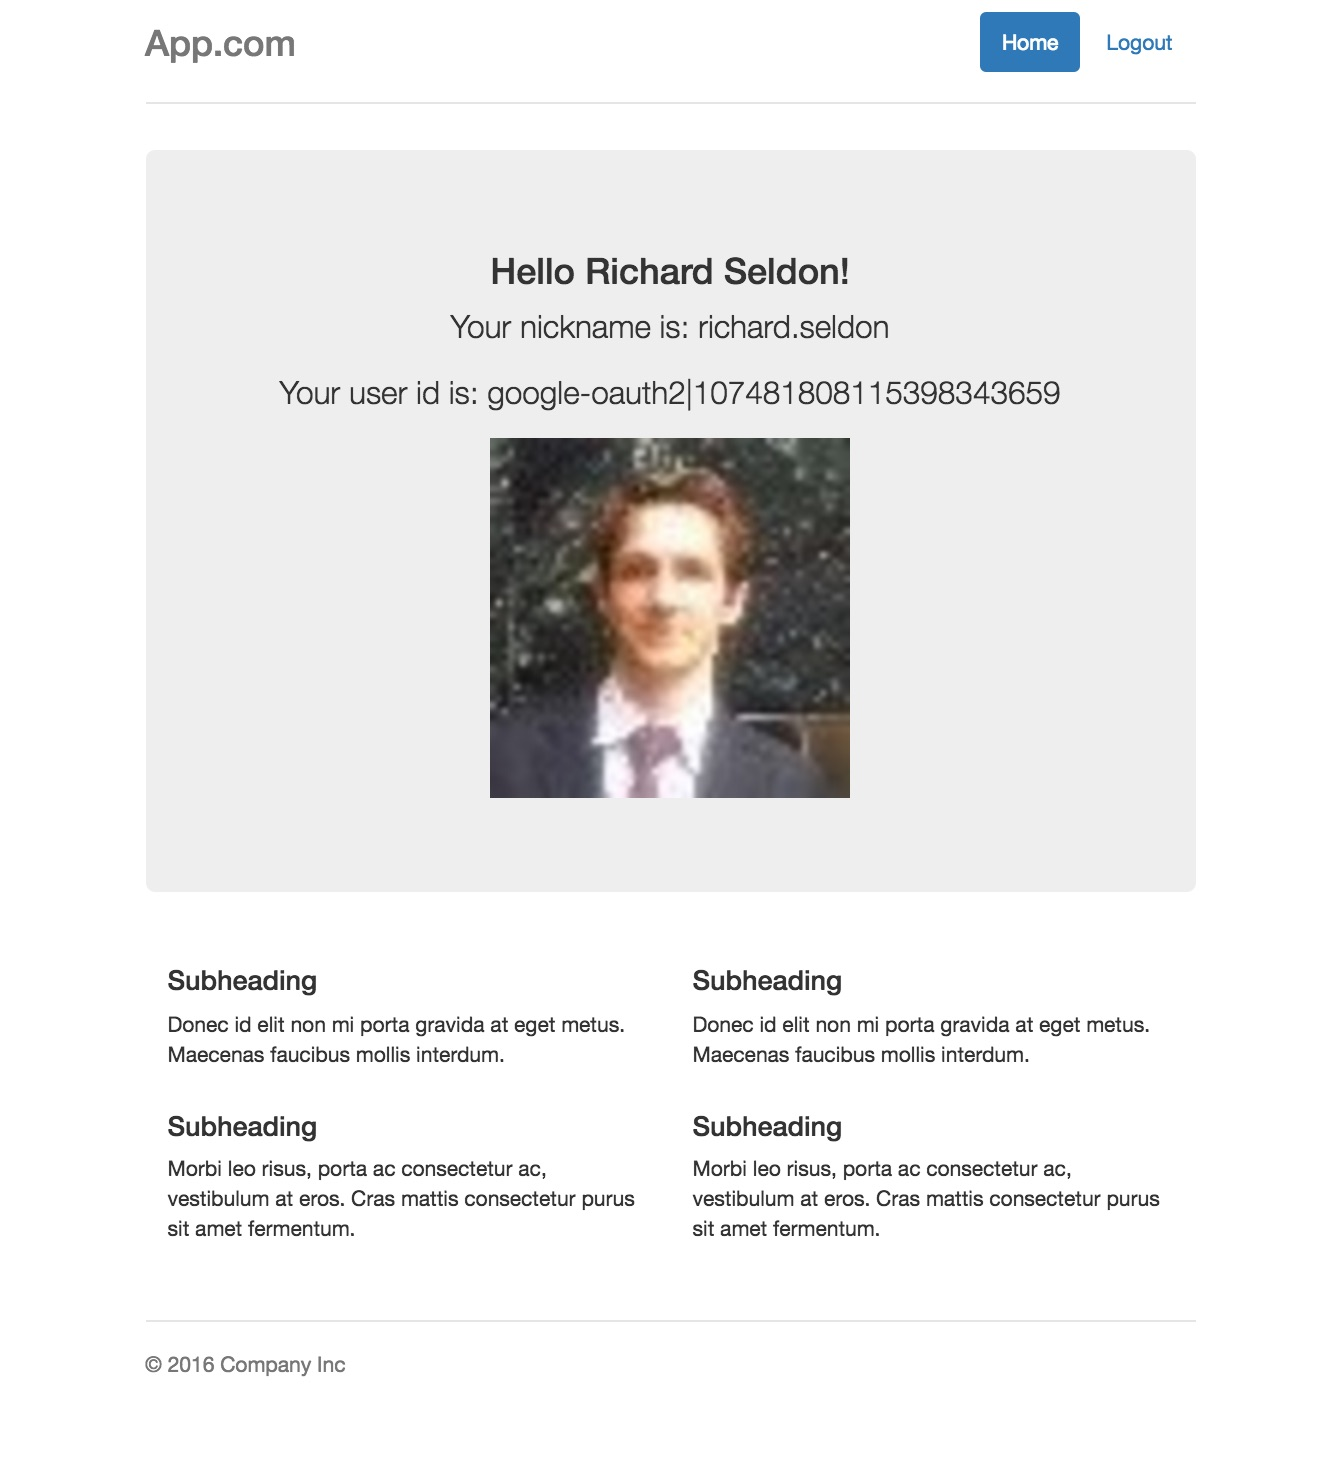
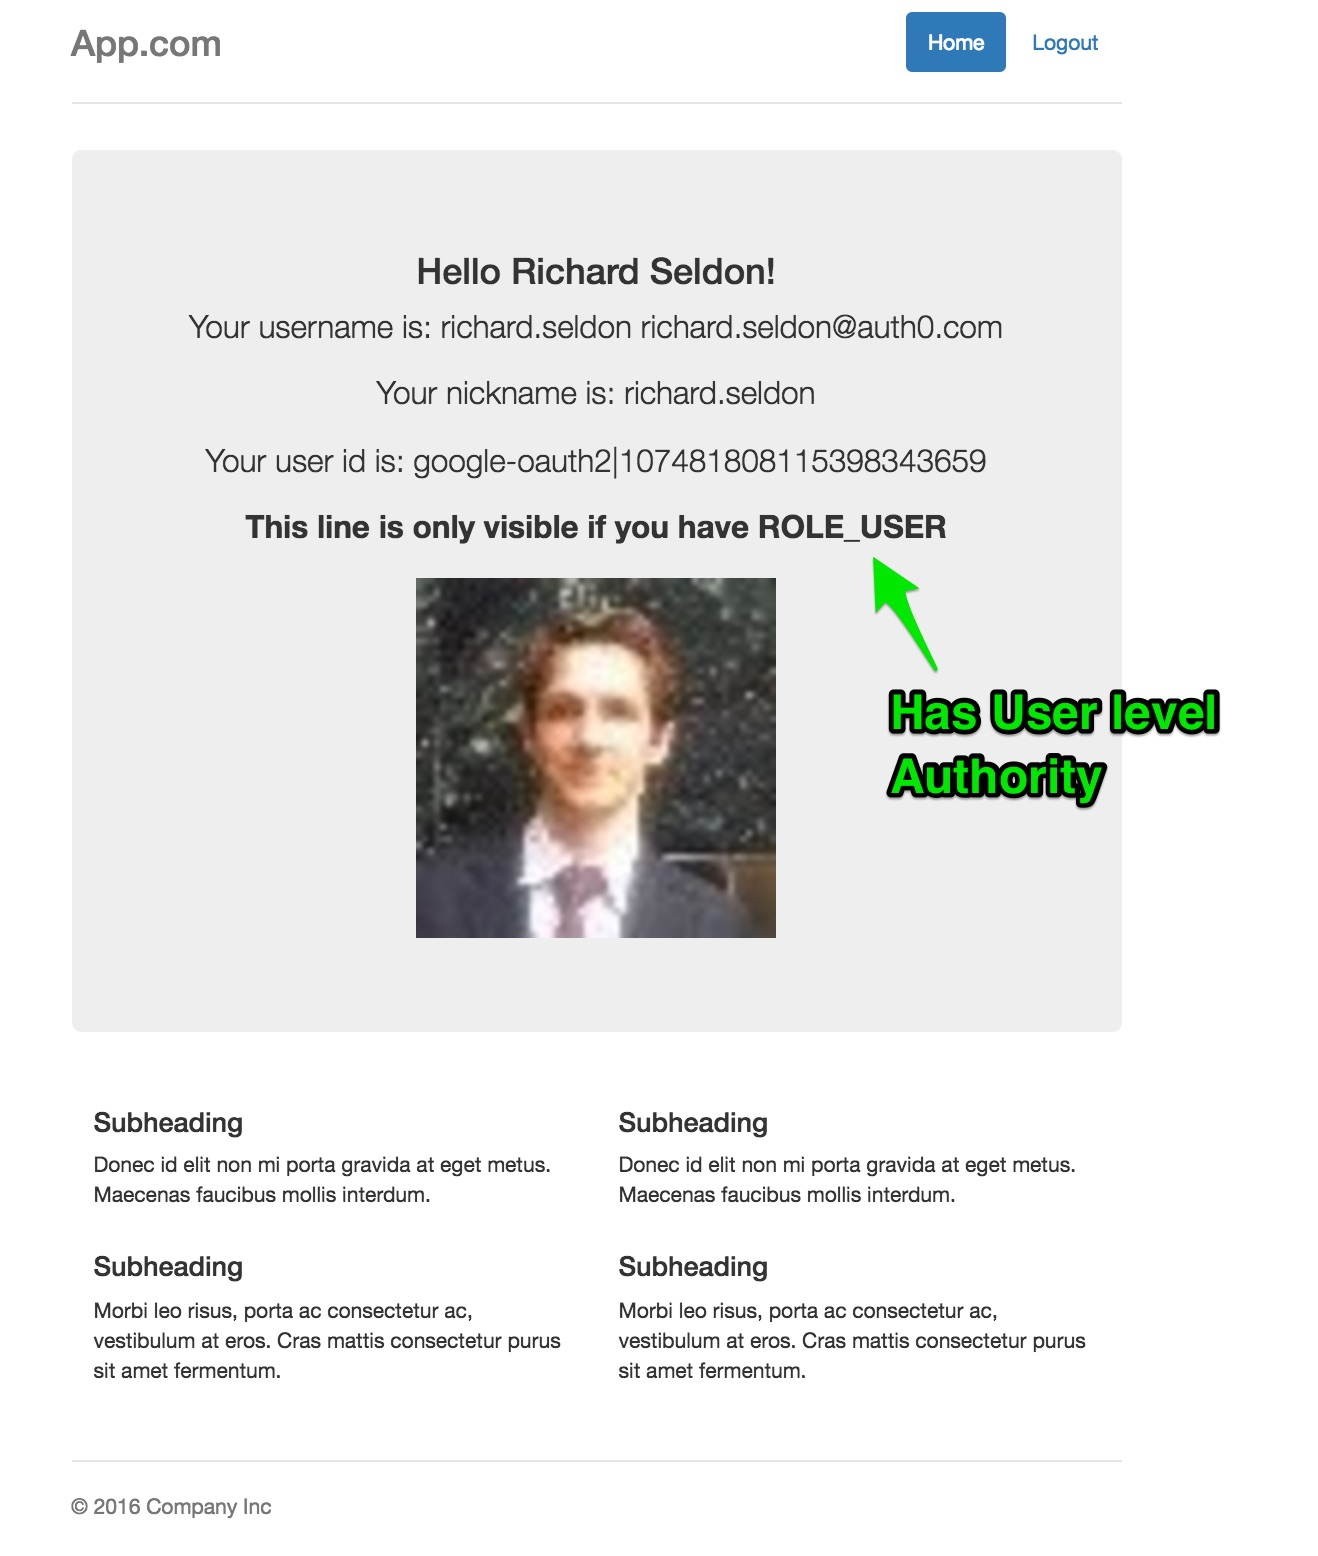
readme & admin service update

diff --git a/src/main/java/com/auth0/example/HomeController.java b/src/main/java/com/auth0/example/HomeController.java
@@ -33,27 +33,28 @@ public class HomeController {
 
     @RequestMapping(value="/portal/home", method = RequestMethod.GET)
     protected String home(final Map<String, Object> model, final HttpServletRequest req, final Principal principal) {
-
         logger.info("Home page");
-
         final String name = principal.getName();
         logger.info("Principal name: " + name);
-
-        final Auth0JWTToken token = (Auth0JWTToken) principal;
-        for(final GrantedAuthority authority: token.getAuthorities()) {
-            logger.info(authority.getAuthority());
-        }
-
-        // if NOT admin - redirected back to login page
-        adminService.ensureAdmin();
-
+        adminChecks((Auth0JWTToken) principal);
         final Auth0User user = SessionUtils.getAuth0User(req);
-        if (user == null) {
-            final String logoutPath = auth0Config.getOnLogoutRedirectTo();
-            return "redirect:" + logoutPath;
-        }
         model.put("user", user);
         return "home";
+    }
+
+    /**
+     *  Simple illustration only
+     */
+    private void adminChecks(final Auth0JWTToken principal) {
+        for(final GrantedAuthority grantedAuthority: principal.getAuthorities()) {
+            final String authority = grantedAuthority.getAuthority();
+            logger.info(authority);
+            if (("ROLE_ADMIN".equals(authority))) {
+                // just a simple callout to demonstrate role based authorization at service level
+                // non-Admin user would be rejected trying to call this service
+                adminService.ensureAdmin();
+            }
+        }
     }
 
 }

diff --git a/src/main/java/com/auth0/example/AdminService.java b/src/main/java/com/auth0/example/AdminService.java
@@ -1,18 +1,33 @@
 package com.auth0.example;
 
+import com.auth0.spring.security.mvc.Auth0UserDetails;
+import org.slf4j.Logger;
+import org.slf4j.LoggerFactory;
 import org.springframework.security.access.prepost.PreAuthorize;
+import org.springframework.security.core.Authentication;
+import org.springframework.security.core.context.SecurityContextHolder;
 import org.springframework.stereotype.Service;
 
 /**
  * Demonstration of method level Role based authorization
  * Only an authenticated and authorized User with Admin
  * rights can access this resource.
+ *
+ * Also demonstrates how to retrieve the UserDetails object
+ * representing the Authentication's principal from within
+ * a service
+ *
  */
 @Service
 public class AdminService {
 
-    @PreAuthorize("hasRole('ROLE_ADMIN')")
+    private final Logger logger = LoggerFactory.getLogger(this.getClass());
+
+    @PreAuthorize("hasAuthority('ROLE_ADMIN')")
     public boolean ensureAdmin() {
+        final Authentication authentication = SecurityContextHolder.getContext().getAuthentication();
+        final Auth0UserDetails currentUser = (Auth0UserDetails) authentication.getPrincipal();
+        logger.info("Current user accessed Admin secured resource: " + currentUser.getUsername());
         return true;
     }
 }

diff --git a/README.md b/README.md
@@ -1,4 +1,14 @@
-## Simple Application demonstrating Auth0 Lock login and home page using Spring Security
+## Sample application demonstrating Auth0 and spring security integration for a Java Spring MVC application
+
+This sample application shows you how to:
+
+ 1. Configure and run Java based Spring application with Auth0 (Lock or Auth0.js) and Spring Security
+ 2. 100% Java Configuration (Annotations)
+ 3. Secure one or more URL endpoints with Role / Authority based permissions (ROLE_USER, ROLE_ADMIN etc)
+ 4. Secure Java Services using method level security annotations for role based access control
+ 5. Use Spring Security JSTL tag library to add role level security to your JSP pages.
+
+Let's get started - it only takes a few minutes to have a working application with all the above.
 
 ### Prerequisites
 
@@ -89,12 +99,12 @@ Here is our sample `AppConfig` entry where we specify the endpoints security set
         http
                 .authorizeRequests()
                 .antMatchers("/css/**", "/fonts/**", "/js/**", "/login").permitAll()
-//                .antMatchers("/portal/**").hasAnyAuthority("ROLE_USER", "ROLE_ADMIN")
-                .antMatchers("/portal/**").hasAuthority("ROLE_ADMIN")
+                .antMatchers("/portal/**").hasAnyAuthority("ROLE_USER", "ROLE_ADMIN")
+//                .antMatchers("/portal/**").hasAuthority("ROLE_ADMIN")
                 .antMatchers(getSecuredRoute()).authenticated();
 ```
 
-Here, we only allow users with `ROLE_ADMIN` to access the home page.
+Here, we only allow users with `ROLE_USER` or `ROLE_ADMIN` to access the home page.
 
 
 ### Inside the Application - update configuration information
@@ -102,6 +112,15 @@ Here, we only allow users with `ROLE_ADMIN` to access the home page.
 Enter your:
 
 `client_id`, `client_secret`, and `domain` information into `src/main/resources/auth0.properties`
+
+Note: There are two properties in `auth0.properties` that you do not need to touch. Leave values as `false`
+
+`auth0.servletFilterEnabled: false` - this ensures we don't autowire the ServletFilter defined in an Auth0 dependency
+library.
+
+`auth0.defaultAuth0WebSecurityEnabled: false` - this ensures we do not autowire the default configuration file
+provided with the `auth0-spring-security-mvc` library itself. That is a default configuration suitable only for
+simpler applications seeking to have an out of the box secured endpoint URL - similar to `auth-servlet` library.
 
 
 ### Build and Run
@@ -123,10 +142,13 @@ Then, go to [http://localhost:3099/login](http://localhost:3099/login).
 
 ![](img/1.login.jpg)
 
-#### 2. Home
+#### 2. Home - logged in user has ROLE_USER level authority
 
 ![](img/2.home.jpg)
 
+#### 2. Home -  logged in user has ROLE_ADMIN level authority
+
+![](img/3.home.jpg)
 
 ---
 
